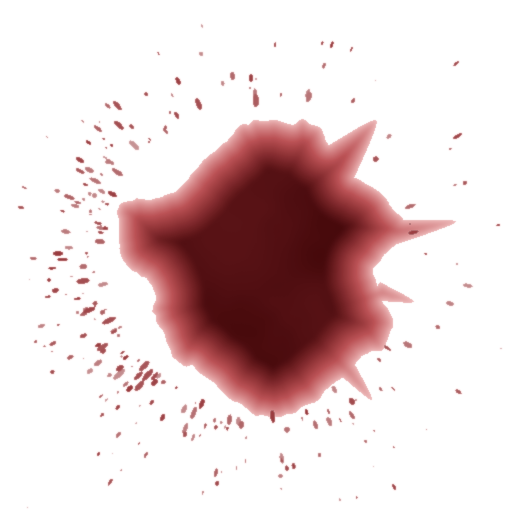
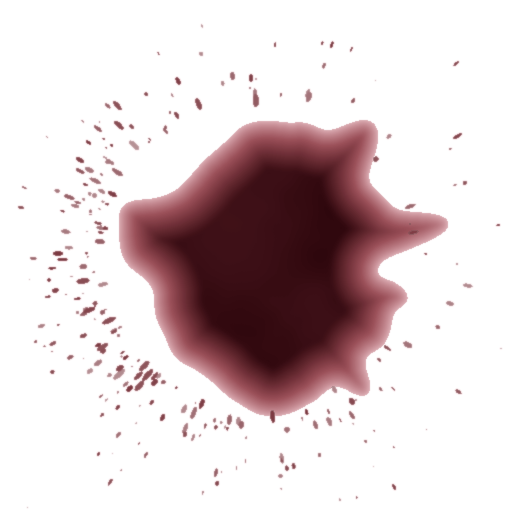
Floor blood: darker crimson, rounded runs, six distinct stain shapes, no canvas star
Owner 2026-09-23 from the phone: "a bit bright red, darker, crimson"; "still has a star sign, looks fake";
"non symmetrical and differentiated per blob".
- floor-textures.py: deeper crimson multipliers, wider tendrils rounded by a blur (no spikes), and 2 pool + 4 splash
  variants from their own seeds. The first of each keeps its old file name.
- gore.ts: the splat pool hands the shapes out in turn, so two stains side by side never share a silhouette.
- scene.ts: the canvas fallback (shown until the PNGs land) used sin(7a)+cos(11a), a regular star; now low,
  out-of-phase lobes.

diff --git a/src/gore.ts b/src/gore.ts
@@ -29,17 +29,20 @@ export function createSplatPool(scene: THREE.Scene, splatTexture: THREE.Texture 
     scene.add(splat);
     return { mesh: splat, life: 0, grow: 0, age: 0, dark: false, pool: false }; // grow: a kill pool spreads over ~2 s instead of appearing at once
   });
-  let splatIndex = 0, photo = false, maps: { pool: THREE.Texture; splash: THREE.Texture } | null = null;
+  let splatIndex = 0, photo = false, maps: { pool: THREE.Texture[]; splash: THREE.Texture[] } | null = null;
   // The floor stains the sand (owner 2026-09-23, on the death pool: "looks cartoon-ish, a bit more real needed"): textures made to
   // multiply onto it (scripts/blood/floor-textures.py) — a near-black core, thin translucent edges the grain shows through, a spatter
   // halo — drawn with multiplyOnto(), so blood darkens the sand instead of painting over it. The canvas star stands in until they
   // land (and under node), with the old tint.
   const tone = (mode: BloodMode) => (mode === 'dark' ? '#352426' : '#681a19');
   if (typeof document !== 'undefined')
-    Promise.all([BLOOD_TEXTURES.floorPool, BLOOD_TEXTURES.floorSplash].map((f) => new THREE.TextureLoader().loadAsync(BLOOD_ASSET(f)))).then(([pool, splash]) => {
-      pool.colorSpace = splash.colorSpace = THREE.SRGBColorSpace; photo = true; maps = { pool, splash };
-      for (const splat of splats) multiplyOnto(splat.mesh.material, splat.pool ? pool : splash);
+    Promise.all([...FLOOR_POOLS, ...FLOOR_SPLASHES].map((f) => new THREE.TextureLoader().loadAsync(BLOOD_ASSET(f)))).then((all) => {
+      for (const t of all) t.colorSpace = THREE.SRGBColorSpace;
+      photo = true; maps = { pool: all.slice(0, FLOOR_POOLS.length), splash: all.slice(FLOOR_POOLS.length) };
+      splats.forEach((splat, i) => multiplyOnto(splat.mesh.material, shape(splat.pool, i)));
     }).catch(() => {});   // no textures: the canvas star stays
+  // Each stain its own silhouette (owner 2026-09-23: "non symmetrical and differentiated per blob"): the shapes go round in turn.
+  const shape = (pool: boolean, i: number) => (pool ? maps!.pool : maps!.splash)[i % (pool ? maps!.pool : maps!.splash).length];
   return {
     // A flesh hit: a splash under the struck fighter, living 20 s.
     splash(target: { x: number; z: number }, bloodMode: BloodMode) {
@@ -49,7 +52,7 @@ export function createSplatPool(scene: THREE.Scene, splatTexture: THREE.Texture 
       splat.mesh.position.set(target.x, 0.022 + (splatIndex % 12) * 0.0001, target.z);
       splat.mesh.scale.set(0.22 + (splatIndex % 3) * 0.05, 0.13 + (splatIndex % 4) * 0.035, 1);
       splat.mesh.rotation.z = splatIndex * 2.4;
-      splat.age = 0; splat.dark = bloodMode === 'dark'; splat.pool = false; if (maps) multiplyOnto(splat.mesh.material, maps.splash);
+      splat.age = 0; splat.dark = bloodMode === 'dark'; splat.pool = false; if (maps) multiplyOnto(splat.mesh.material, shape(false, splatIndex));
       splat.mesh.material.color.set(photo ? FLOOR_FRESH : tone(bloodMode));
     },
     // A kill: the corpse keeps pooling after the splashes fade (cleared on rematch like everything else).
@@ -60,7 +63,7 @@ export function createSplatPool(scene: THREE.Scene, splatTexture: THREE.Texture 
       pool.mesh.position.set(target.x, 0.03, target.z);
       pool.mesh.rotation.z = splatIndex * 2.4;
       pool.mesh.scale.set(0.3, 0.2, 1);
-      pool.age = 0; pool.dark = bloodMode === 'dark'; pool.pool = true; if (maps) multiplyOnto(pool.mesh.material, maps.pool);
+      pool.age = 0; pool.dark = bloodMode === 'dark'; pool.pool = true; if (maps) multiplyOnto(pool.mesh.material, shape(true, splatIndex));
       pool.mesh.material.color.set(photo ? FLOOR_FRESH : tone(bloodMode));
     },
     update(dt: number) {
@@ -219,6 +222,7 @@ export function multiplyOnto(material: THREE.MeshBasicMaterial, map: THREE.Textu
 }
 const FLOOR_FRESH = new THREE.Color('#ffffff'), FLOOR_DRIED = new THREE.Color('#b09a9a'), FLOOR_DARK_MODE = new THREE.Color('#a8a0a0');
 const FLOOR_DRY = 8;   // seconds for a stain to settle from wet to dried
+const FLOOR_POOLS = ['floor-pool.png', 'floor-pool-b.png'], FLOOR_SPLASHES = ['floor-splash.png', 'floor-splash-b.png', 'floor-splash-c.png', 'floor-splash-d.png'];
 export const BLOOD_TEXTURES = { floorPool: 'floor-pool.png', floorSplash: 'floor-splash.png', drip: 'blood-drip.png', dripNormal: 'blood-drip-normal.png' } as const;
 // The wound itself, authored for a vertical body, not a floor (owner 2026-09-23 on the phone: "paint-ball graffiti stickers… less
 // uniform… more dripping style not a star"; he picked B, C and D from four FLUX candidates): B a cut with uneven streaks, C a patch

diff --git a/src/scene.ts b/src/scene.ts
@@ -199,7 +199,7 @@ export function createScene(
     ctx.beginPath();
     for (let i = 0; i <= 64; i++) {
       const angle = (i / 64) * Math.PI * 2,
-        r = splash ? 33 + Math.sin(angle * 7) * 6 + Math.cos(angle * 11) * 4 : 48;
+        r = splash ? 33 + Math.sin(angle * 2 + 1) * 5 + Math.cos(angle * 3 + 2) * 4 + Math.sin(angle * 5 + 0.5) * 2 : 48;   // low, out-of-phase lobes: a lopsided blot, never a star
       const x = 64 + Math.cos(angle) * r,
         y = 64 + Math.sin(angle) * r * (splash ? 1 : 0.65);
       if (i === 0) ctx.moveTo(x, y);

diff --git a/scripts/blood/floor-textures.py b/scripts/blood/floor-textures.py
@@ -10,7 +10,7 @@ from PIL import Image
 from scipy import ndimage
 
 OUT = 'src/assets/blood/'
-CORE, MID, EDGE = np.array([0.24, 0.015, 0.025]), np.array([0.62, 0.03, 0.05]), np.array([0.86, 0.40, 0.40])   # multipliers: near-black core → wet crimson → a thin stain
+CORE, MID, EDGE = np.array([0.15, 0.008, 0.03]), np.array([0.44, 0.02, 0.07]), np.array([0.72, 0.30, 0.36])   # multipliers: near-black core → deep crimson → a thin stain (owner 2026-09-23: "a bit bright red, darker, crimson")
 
 
 def fbm(size, rng, octaves=5):
@@ -34,9 +34,10 @@ def texture(size, seed, lobes, body, spatter):
     # Tendrils: blood runs off the pool in a few fingers of different length (the reference photos), not a round edge.
     yy, xx = np.mgrid[0:size, 0:size] / (size / 2) - 1
     for _ in range(rng.integers(3, 6)):
-        ang, length, width = rng.uniform(0, 2 * np.pi), body * rng.uniform(.35, .9), body * rng.uniform(.08, .2)
+        ang, length, width = rng.uniform(0, 2 * np.pi), body * rng.uniform(.35, .9), body * rng.uniform(.14, .28)
         along, across = xx * np.cos(ang) + yy * np.sin(ang) - body * .6, -xx * np.sin(ang) + yy * np.cos(ang)
-        blob = np.maximum(blob, ((along / length) ** 2 + (across / (width * (1 - np.clip(along / length, 0, 1) * .6))) ** 2 < 1) * (0.5 + fbm(size, rng, 4) > .8))
+        blob = np.maximum(blob, ((along / length) ** 2 + (across / (width * (1 - np.clip(along / length, 0, 1) * .35))) ** 2 < 1) * (0.5 + fbm(size, rng, 4) > .8))
+    blob = ndimage.gaussian_filter(blob.astype(float), size / 60) > .5   # round the fingers off: a run of blood ends in a blunt bead, never a spike
     lab, n = ndimage.label(blob); sizes = ndimage.sum(blob, lab, range(1, n + 1))
     blob = ndimage.binary_fill_holes(np.isin(lab, 1 + np.where(sizes >= sizes.max() * .02)[0])).astype(float)   # the pool plus its bigger satellites
     # Spatter halo: many small drops, denser near the pool, a few stretched along their flight.
@@ -63,6 +64,10 @@ def texture(size, seed, lobes, body, spatter):
     return Image.fromarray((img * 255).astype(np.uint8), 'RGBA')
 
 
-texture(512, 190923, (2, 3, 5, 7), .6, 260).save(OUT + 'floor-pool.png', optimize=True)
-texture(256, 230919, (2, 3, 4, 6), .34, 120).save(OUT + 'floor-splash.png', optimize=True)
-print('wrote', OUT + 'floor-pool.png', OUT + 'floor-splash.png')
+# Several shapes of each (owner 2026-09-23: "non symmetrical and differentiated per blob"): the pool hands them out in turn, so
+# two stains side by side are never the same silhouette. The first of each keeps the old file name.
+for i, seed in enumerate((190923, 51187)):
+    texture(512, seed, (2, 3, 5, 7), .6, 260).save(OUT + 'floor-pool' + ('-' + 'abcd'[i] if i else '') + '.png', optimize=True)
+for i, seed in enumerate((230919, 77421, 90313, 12457)):
+    texture(256, seed, (2, 3, 4, 6), .3 + .03 * i, 90 + 25 * i).save(OUT + 'floor-splash' + ('-' + 'abcd'[i] if i else '') + '.png', optimize=True)
+print('wrote', OUT + 'floor-pool*.png', OUT + 'floor-splash*.png')
